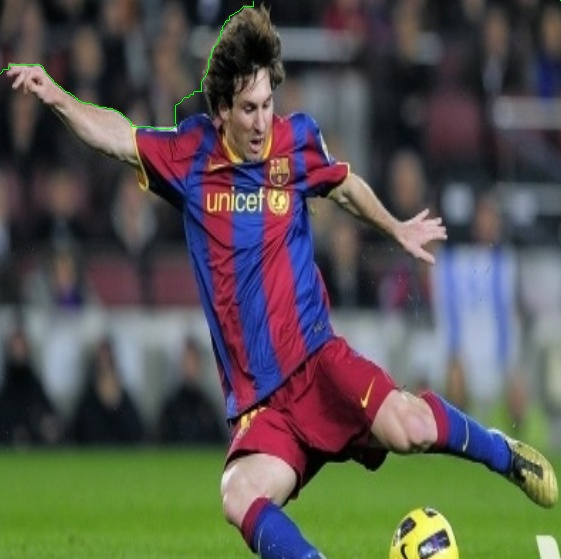
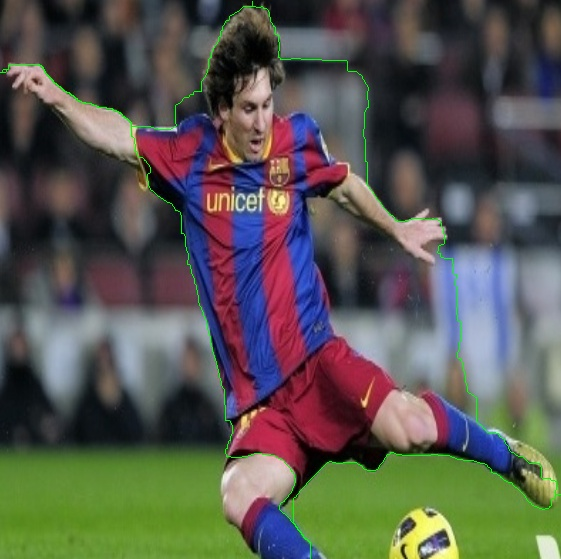
Debug the Dijistra
dijstra is bug free now but need to change the differe threshold of the Matrix

diff --git a/demo.py b/demo.py
@@ -20,23 +20,17 @@ point3x=367
 point3y=635
 point4x=617
 point4y=571
+point5x=500
+point5y=315
 
 xmin = min(point1x,point2x,point3x,point4x)
 xmax =max(point1x,point2x,point3x,point4x)
 ymin=min(point1y,point2y,point3y,point4y)
 ymax=max(point1y,point2y,point3y,point4y)
 
-extremPoint=[]
-#img2=img[][]
 img = img[ymin:ymax,xmin:xmax]
 (ROW,COL,_)= img.shape
 print(ROW,COL)
-detector = cv2.ximgproc.createStructuredEdgeDetection('model.yml.gz')
-rgb_im = cv2.cvtColor(img, cv2.COLOR_BGR2RGB)
-
-
-
-
 
 class cell:
 	def __init__(self, x, y, distance):
@@ -51,27 +45,26 @@ class cell:
 			return False
 
 
-def isInsideGrid(i, j): 
+def notInsideGrid(i, j): 
 
-	return (i >= 0 and i < COL and j >= 0 and j < ROW) 
+	return (i < 0 or i >= ROW or j < 0 or j >= COL) 
 
-def printPath(parent, startY,startX,i,j,img): 
-	
-	#Base Case : If j is source 
-	#if parent[i][j][1] == -1: 
-	#	print (i,j)
-	#	return
-	#printPath(parent,parent[i][j][0],parent[i][j][1]) 
-	#print (i,j) 
-	while not i==-1 or not j ==-1:
+def printPath(parent,i,j,img): 
+ 
+	while True:
 		print(i,j)
 		img[i][j]=(0, 255, 0)
 		i = parent[i][j][0]
-		j=parent[i][j][1] 
+		j=parent[i][j][1]
+		if i ==-1 or j ==-1:
+			break
+	print('done by plot') 
 	return img
+
+
 # Method returns minimum cost to reach bottom 
 # right from top left 
-def shortest(grid, row, col,StartRow,StartCol,desRow,desCol):
+def shortest(grid, row, col,StartRow,StartCol):
 
 
 	dis= [[float("Inf") for x in range(col)] for x in range(row)]
@@ -82,8 +75,7 @@ def shortest(grid, row, col,StartRow,StartCol,desRow,desCol):
 		for y in range(col):
 			parent[x][y].append(-1)
 			parent[x][y].append(-1)
-	#print(parent)
-	#print(parent)
+
 	# direction arrays for simplification of getting  neighbour 
 	dx = [-1, 0, 1, 0] 
 	dy = [0, 1, 0, -1]
@@ -101,28 +93,30 @@ def shortest(grid, row, col,StartRow,StartCol,desRow,desCol):
 	
 		# get the cell with minimum distance and delete 
 		# it from the set 
-		k = st.pop()
-		#st.erase(st.begin()); 
+		k = st.pop() 
 		print("k.x is",k.x)
 		print('k.y is ',k.y)
-		if k.x == desRow and k.y == desCol:
-					print('done')
-					break
 
 		# looping through all neighbours 
 		for i in range(4): 
 			x = k.x + dx[i] 
 			y = k.y + dy[i] 
+			print("x is",x)
+			print('y is ',y)
+			#if k.x == desRow and k.y == desCol:
+			#	print('done')
+             #   break
+
 			# if not inside boundry, ignore them 
-			if not isInsideGrid(x, y): 
+			if notInsideGrid(x, y): 
 				continue
 
 			# If distance from current cell is smaller, then 
 			# update distance of neighbour cell 
 			if dis[x][y] > dis[k.x][k.y] + grid[x][y]:
+
 				# If cell is already there in set, then 
 				# remove its previous entry 
-				
 				if dis[x][y] != float("Inf"):
 					st.remove(cell(x, y, dis[x][y])) 
 
@@ -130,45 +124,54 @@ def shortest(grid, row, col,StartRow,StartCol,desRow,desCol):
 				# cell in set 
 				#print('update')
 				dis[x][y] = dis[k.x][k.y] + grid[x][y] 
-				print("x is",x)
-				print('y is ',y)
+				
 				st.append(cell(x, y, dis[x][y]))
 
-				st.sort(key=lambda x: x.distance, reverse=True)
+				
 				parent[x][y]=[]
 				parent[x][y].append(k.x)
 				parent[x][y].append(k.y)
 				print('parent[x][y] is',parent[x][y])
-				
-	#printPath(parent, desRow,desCol)
+		st.sort(key=lambda x: x.distance, reverse=True)
+	#img = printPath(parent, desRow,desCol,img)
 	#print(dis)
 
-	return dis[row - 1][col - 1], parent
+	return dis[row - 1][col - 1], parent,img
+
+
+detector = cv2.ximgproc.createStructuredEdgeDetection('model.yml.gz')
+rgb_im = cv2.cvtColor(img, cv2.COLOR_BGR2RGB)	
 im = detector.detectEdges(np.float32(rgb_im) / 255.0)
 orimap = detector.computeOrientation(im)
 edges = detector.edgesNms(im, orimap)
 
 Matrix = edges.tolist()
-print((Matrix[ROW-1][COL-1]))
 
 for x in range(len(edges.tolist())):
 	for y in range(len(edges.tolist()[0])):
 		Matrix[x][y]=1-Matrix[x][y]
 		if Matrix[x][y] ==1:
-			Matrix[x][y]+=5
+			Matrix[x][y]=1000
 
-print(point1y-ymin,point1x-xmin,point2y-ymin,point2x-xmin)
-dist,parent=shortest(Matrix, ROW, COL,point1y-ymin,point1x-xmin,point2y-ymin,point2x-xmin)
-print(point1y-ymin,point1x-xmin,point2y-ymin,point2x-xmin)
-print(parent[253][1])
-#print(point2y-ymin,point2x-xmin)
-#print(parent[point2y-ymin][point2x-xmin])
+dist1,parent1=shortest(Matrix, ROW, COL,max(point1y-ymin-1,0),max(point1x-xmin-1,0))
+
+dist2,parent2=shortest(Matrix, ROW, COL,max(point2y-ymin-1,0),max(point2x-xmin-1,0))
+
+dist3,parent3=shortest(Matrix, ROW, COL,max(point3y-ymin-1,0),max(point3x-xmin-1,0))
+
+dist4,parent4=shortest(Matrix, ROW, COL,max(point4y-ymin-1,0),max(point4x-xmin-1,0))
+
+dist5,parent5=shortest(Matrix, ROW, COL,max(point5y-ymin-1,0),max(point5x-xmin-1,0))
 
 
-img = printPath(parent, point1y-ymin,point1x-xmin,point2y-ymin,point2x-xmin,img)
-print(dist)
+img=printPath(parent1,max(point2y-ymin-1,0),max(point2x-xmin-1,0),img)
+img=printPath(parent2,max(point3y-ymin-1,0),max(point3x-xmin-1,0),img)
+img=printPath(parent3,max(point4y-ymin-1,0),max(point4x-xmin-1,0),img)
+img=printPath(parent4,max(point5y-ymin-1,0),max(point5x-xmin-1,0),img)
+printPath(parent1,max(point5y-ymin-1,0),max(point5x-xmin-1,0),img)
+
 cv2.imwrite('left.jpg',img)
-
+print('done')
 
 #cv2.imshow("edges", im)
 #cv2.imshow("edgeboxes", edges)

diff --git a/test_algo.py b/test_algo.py
@@ -1,126 +1,35 @@
-# Python program for Dijkstra's 
-# single source shortest 
-# path algorithm. The program 
-# is for adjacency matrix 
-# representation of the graph 
+import math
+import numpy as np
+import sys, os
+import matplotlib.pyplot as plt
+from lxml import etree as ET
+import cv2
+import random 
+import pdb
+#ROW=640
+#COL=640
 
-from collections import defaultdict 
-
-#Class to represent a graph 
-class Graph: 
-
-	# A utility function to find the 
-	# vertex with minimum dist value, from 
-	# the set of vertices still in queue 
-	def minDistance(self,dist,queue): 
-		# Initialize min value and min_index as -1 
-		minimum = float("Inf") 
-		min_index = -1
-		
-		# from the dist array,pick one which 
-		# has min value and is till in queue 
-		for i in range(len(dist)): 
-			if dist[i] < minimum and i in queue: 
-				minimum = dist[i] 
-				min_index = i 
-		return min_index 
+img = cv2.imread('messi5.jpg')
+#print(path)
+point1x=309
+point1y=76
+point2x=56
+point2y=149
+point3x=367
+point3y=635
+point4x=617
+point4y=571
 
 
-	# Function to print shortest path 
-	# from source to j 
-	# using parent array 
-	def printPath(self, parent, j): 
-		
-		#Base Case : If j is source 
-		if parent[j] == -1 : 
-			print (j) 
-			return
-		self.printPath(parent , parent[j]) 
-		print (j) 
-		
+(ROW,COL,_)= img.shape
+print(ROW,COL)
+detector = cv2.ximgproc.createStructuredEdgeDetection('model.yml.gz')
+rgb_im = cv2.cvtColor(img, cv2.COLOR_BGR2RGB)
+im = detector.detectEdges(np.float32(rgb_im) / 255.0)
+orimap = detector.computeOrientation(im)
+edges = detector.edgesNms(im, orimap)
 
-	# A utility function to print 
-	# the constructed distance 
-	# array 
-	def printSolution(self, dist, parent): 
-		src = 0
-		print("Vertex \t\tDistance from Source\tPath") 
-		for i in range(1, len(dist)): 
-			print("\n%d --> %d \t\t%d \t\t\t\t\t" % (src, i, dist[i])), 
-			self.printPath(parent,i) 
-
-
-	'''Function that implements Dijkstra's single source shortest path 
-	algorithm for a graph represented using adjacency matrix 
-	representation'''
-	def dijkstra(self, graph, src): 
-
-		row = len(graph) 
-		col = len(graph[0]) 
-
-		# The output array. dist[i] will hold 
-		# the shortest distance from src to i 
-		# Initialize all distances as INFINITE 
-		dist = [float("Inf")] * row 
-
-		#Parent array to store 
-		# shortest path tree 
-		parent = [-1] * row 
-
-		# Distance of source vertex 
-		# from itself is always 0 
-		dist[src] = 0
-	
-		# Add all vertices in queue 
-		queue = [] 
-		for i in range(row): 
-			queue.append(i) 
-			
-		#Find shortest path for all vertices 
-		while queue: 
-
-			# Pick the minimum dist vertex 
-			# from the set of vertices 
-			# still in queue 
-			u = self.minDistance(dist,queue) 
-
-			# remove min element	 
-			queue.remove(u) 
-
-			# Update dist value and parent 
-			# index of the adjacent vertices of 
-			# the picked vertex. Consider only 
-			# those vertices which are still in 
-			# queue 
-			for i in range(col): 
-				'''Update dist[i] only if it is in queue, there is 
-				an edge from u to i, and total weight of path from 
-				src to i through u is smaller than current value of 
-				dist[i]'''
-				if graph[u][i] and i in queue: 
-					if dist[u] + graph[u][i] < dist[i]: 
-						dist[i] = dist[u] + graph[u][i] 
-						parent[i] = u 
-
-
-		# print the constructed distance array 
-		self.printSolution(dist,parent) 
-
-g= Graph() 
-
-graph = [[0, 4, 0, 0, 0, 0, 0, 8, 0], 
-		[4, 0, 8, 0, 0, 0, 0, 11, 0], 
-		[0, 8, 0, 7, 0, 4, 0, 0, 2], 
-		[0, 0, 7, 0, 9, 14, 0, 0, 0], 
-		[0, 0, 0, 9, 0, 10, 0, 0, 0], 
-		[0, 0, 4, 14, 10, 0, 2, 0, 0], 
-		[0, 0, 0, 0, 0, 2, 0, 1, 6], 
-		[8, 11, 0, 0, 0, 0, 1, 0, 7], 
-		[0, 0, 2, 0, 0, 0, 6, 7, 0] 
-		] 
-
-#Print the solution 
-g.dijkstra(graph,0) 
-
-
-#This code is contributed by Neelam Yadav 
+cv2.imshow("edges", im)
+cv2.imshow("edgeboxes", edges)
+cv2.waitKey(0)
+cv2.destroyAllWindows()
